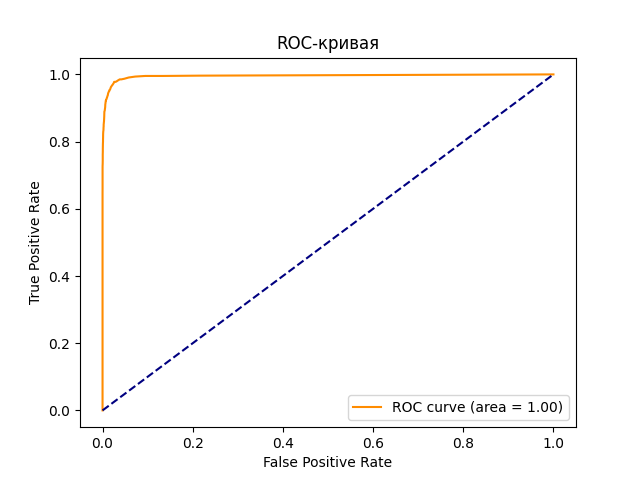
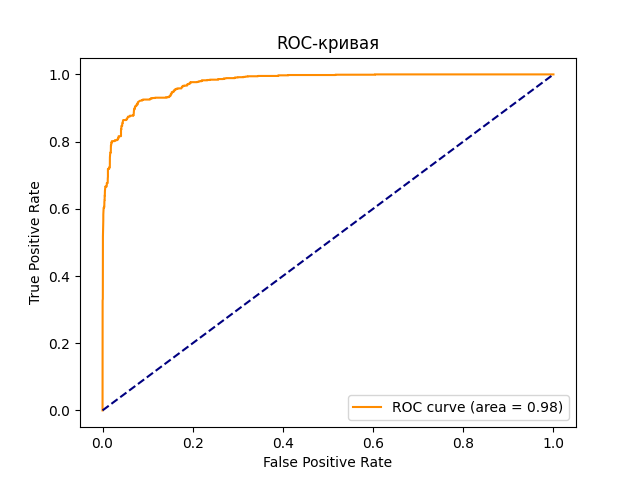
Разделил код на 2 файла, для бустинга и бэгинга

Changed region(s): [[0.1562, 0.1562, 0.4062, 0.5], [0.8125, 0.8438, 0.875, 0.875], [0.5312, 0.1562, 0.5625, 0.1875]]

diff --git a/classification_AB_GBC_lab4.py b/classification_AB_GBC_lab4.py
@@ -3,7 +3,7 @@ from sklearn.metrics import roc_curve
 from sklearn.model_selection import train_test_split
 from sklearn.metrics import accuracy_score, confusion_matrix, classification_report, auc, roc_curve, roc_auc_score
 # from sklearn.tree import DecisionTreeClassifier
-from sklearn.ensemble import RandomForestClassifier, AdaBoostClassifier
+from sklearn.ensemble import RandomForestClassifier, AdaBoostClassifier, GradientBoostingClassifier
 import matplotlib.pyplot as plt
 
 #загрузка датасета
@@ -17,33 +17,32 @@ y=df["Personality"]
 # разделение на train test
 X_train, X_test, y_train, y_test = train_test_split(X,y,test_size=0.4,random_state=42)
 
-#модель
-RF = RandomForestClassifier(oob_score=True)
-RF.fit(X_train, y_train)
-y_pred_test_rf = RF.predict(X_test)
+#модель AB
+AB = AdaBoostClassifier(learning_rate=1,n_estimators=500)
+""" AB = AdaBoostClassifier(learning_rate=0.5,n_estimators=1000)
+AB = AdaBoostClassifier(learning_rate=0.1,n_estimators=5000) """
+AB.fit(X_train, y_train)
+y_pred_test_ab = AB.predict(X_test)
 
 #Оценка классификационной модели 
-accuracy = accuracy_score(y_test, y_pred_test_rf)
+accuracy = accuracy_score(y_test, y_pred_test_ab)
 #matrix
-cm = confusion_matrix(y_test, y_pred_test_rf)
+cm = confusion_matrix(y_test, y_pred_test_ab)
 #report
-report = classification_report(y_test, y_pred_test_rf)
+report = classification_report(y_test, y_pred_test_ab)
 #результаты
 print("\nТочность:", accuracy)
 print("\nConfusion matrix",cm )
 print("\nОтчет: ", report)
-""" out_of_bag_predictions = RF.oob_prediction_
-print("OOB Accuracy:", RF.oob_score_)
-print("OOBE: ", 1 - RF.oob_score_) """
 
-#работа с ROC кривой (RF)
+#работа с ROC кривой (AB)
 #вероятности (матрица 16 колонок)
-y_proba = RF.predict_proba(X_test)
-print(RF.classes_)
+y_proba = AB.predict_proba(X_test)
+print(AB.classes_)
 
 # 2. Выбираем класс, который хотим проверить (например, под индексом 0)
-class_index = 5
-class_name = RF.classes_[class_index]
+class_index = 0
+class_name = AB.classes_[class_index]
 
 # 3. Создаем временную метку: 1 если это наш класс, 0 если любой другой из 15
 y_test_binary = (y_test == class_name).astype(int)
@@ -61,5 +60,7 @@ plt.xlabel('False Positive Rate')
 plt.ylabel('True Positive Rate')
 plt.title('ROC-кривая')
 plt.legend(loc="lower right")
-plt.savefig("ROC-curve-RF.png")
+plt.savefig("ROC-curve-AB.png")
 plt.show()
+
+#модель GBC
